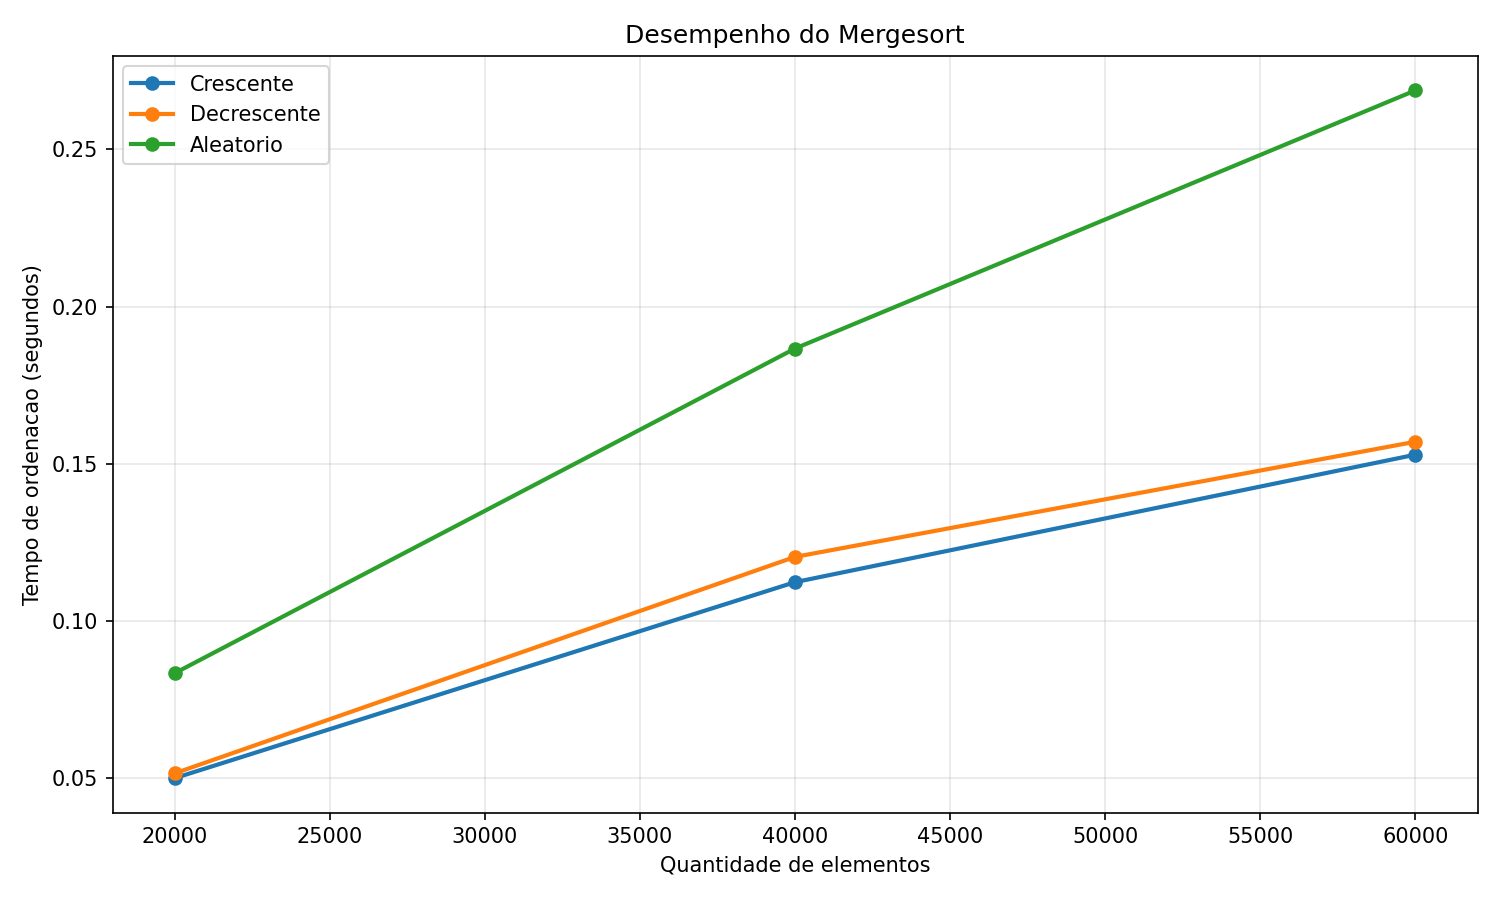
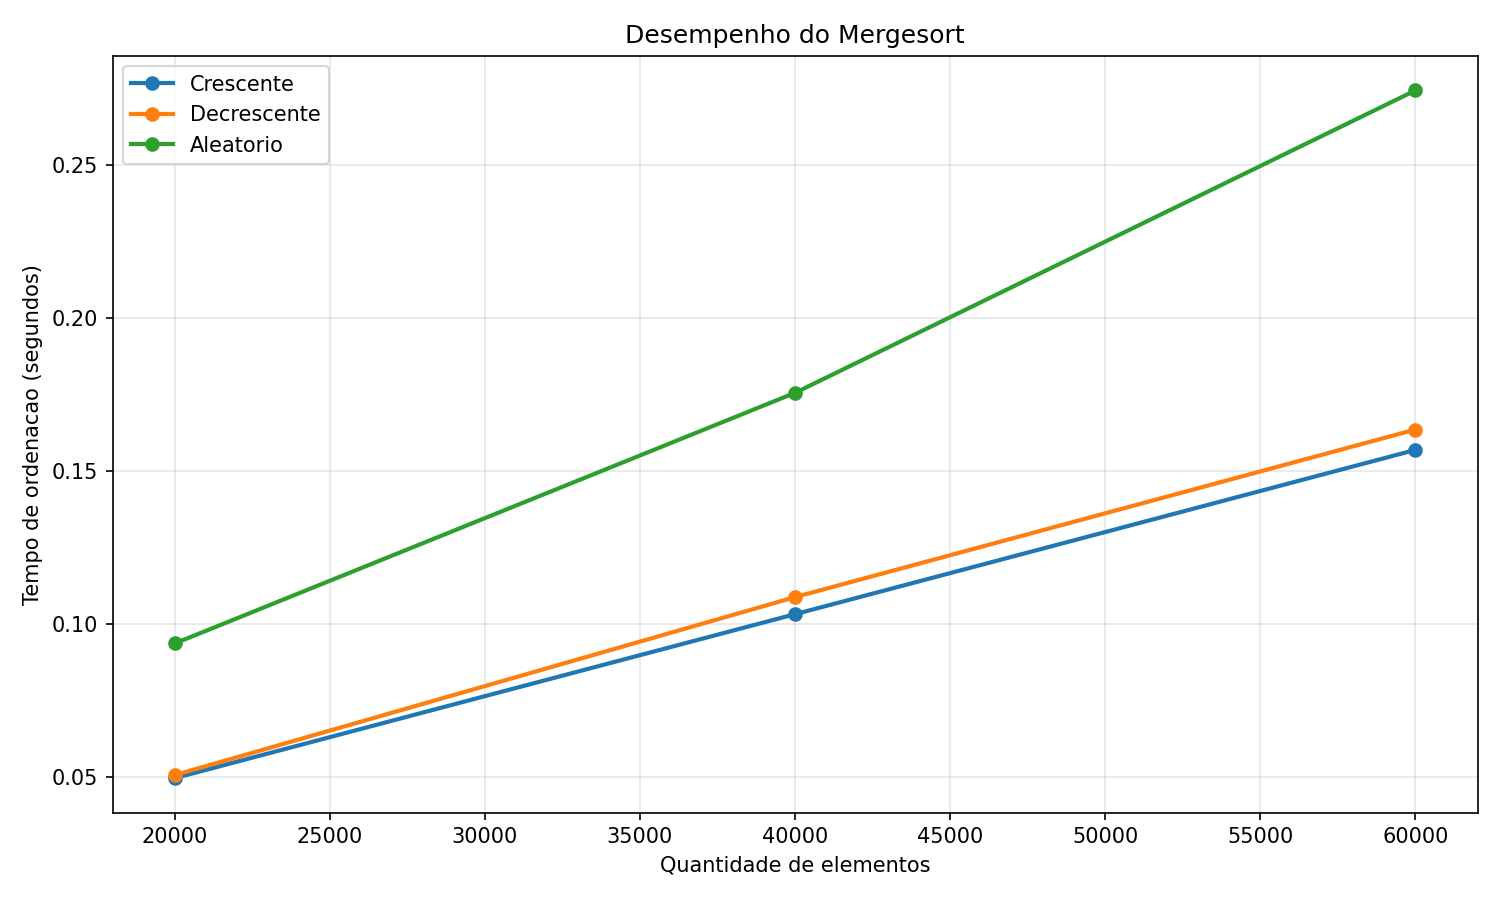
separando as imagens de comparação

diff --git a/Trabalho01/src/gerar_graficos.py b/Trabalho01/src/gerar_graficos.py
@@ -136,29 +136,24 @@ def criar_grafico_por_algoritmo(resultados, algoritmo):
 
 
 def criar_grafico_comparativo(resultados):
-    figura, eixos = plt.subplots(1, len(TIPOS_CASO), figsize=(18, 5), sharey=True)
+    for tipo_caso in TIPOS_CASO:
+        figura, eixo = plt.subplots(figsize=(10, 6))
 
-    if len(TIPOS_CASO) == 1:
-        eixos = [eixos]
-
-    for eixo, tipo_caso in zip(eixos, TIPOS_CASO):
         for nome_algoritmo in ALGORITMOS:
             tamanhos, tempos = preparar_dados_para_grafico(resultados, nome_algoritmo, tipo_caso)
             eixo.plot(tamanhos, tempos, marker="o", linewidth=2, label=nome_algoritmo.capitalize())
 
-        eixo.set_title(tipo_caso.capitalize())
+        eixo.set_title(f"Comparacao entre Mergesort e TimSort - {tipo_caso.capitalize()}")
         eixo.set_xlabel("Quantidade de elementos")
+        eixo.set_ylabel("Tempo de ordenacao (segundos)")
         eixo.grid(True, alpha=0.3)
+        eixo.legend()
+        figura.tight_layout()
 
-    eixos[0].set_ylabel("Tempo de ordenacao (segundos)")
-    eixos[-1].legend()
-    figura.suptitle("Comparacao entre Mergesort e TimSort")
-    figura.tight_layout(rect=[0, 0, 1, 0.95])
-
-    destino = GRAPHICS_DIR / "comparativo" / "comparacao_algoritmos.png"
-    destino.parent.mkdir(parents=True, exist_ok=True)
-    figura.savefig(destino, dpi=150)
-    plt.close(figura)
+        destino = GRAPHICS_DIR / "comparativo" / f"comparacao_{tipo_caso}.png"
+        destino.parent.mkdir(parents=True, exist_ok=True)
+        figura.savefig(destino, dpi=150)
+        plt.close(figura)
 
 
 def gerar_graficos(resultados):
